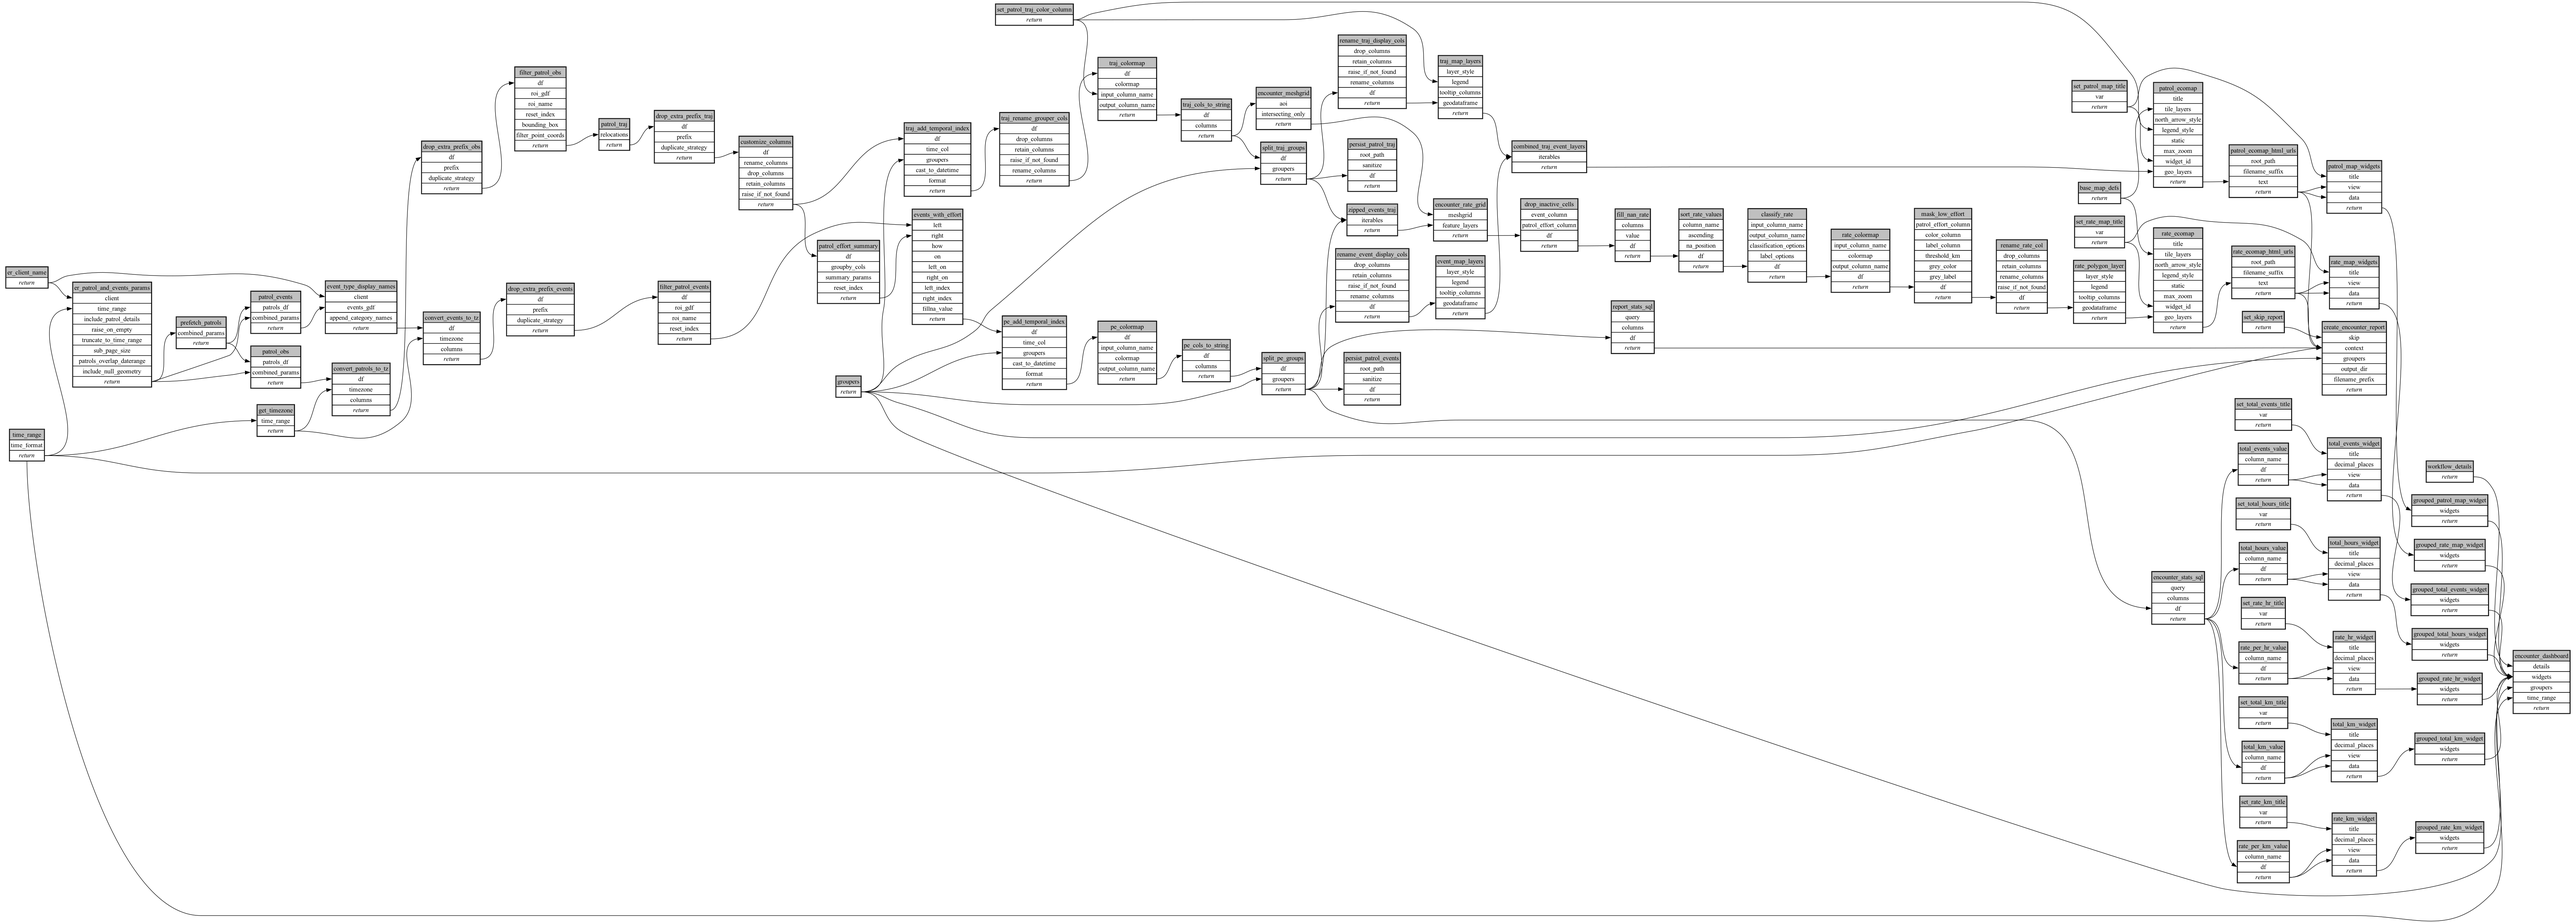
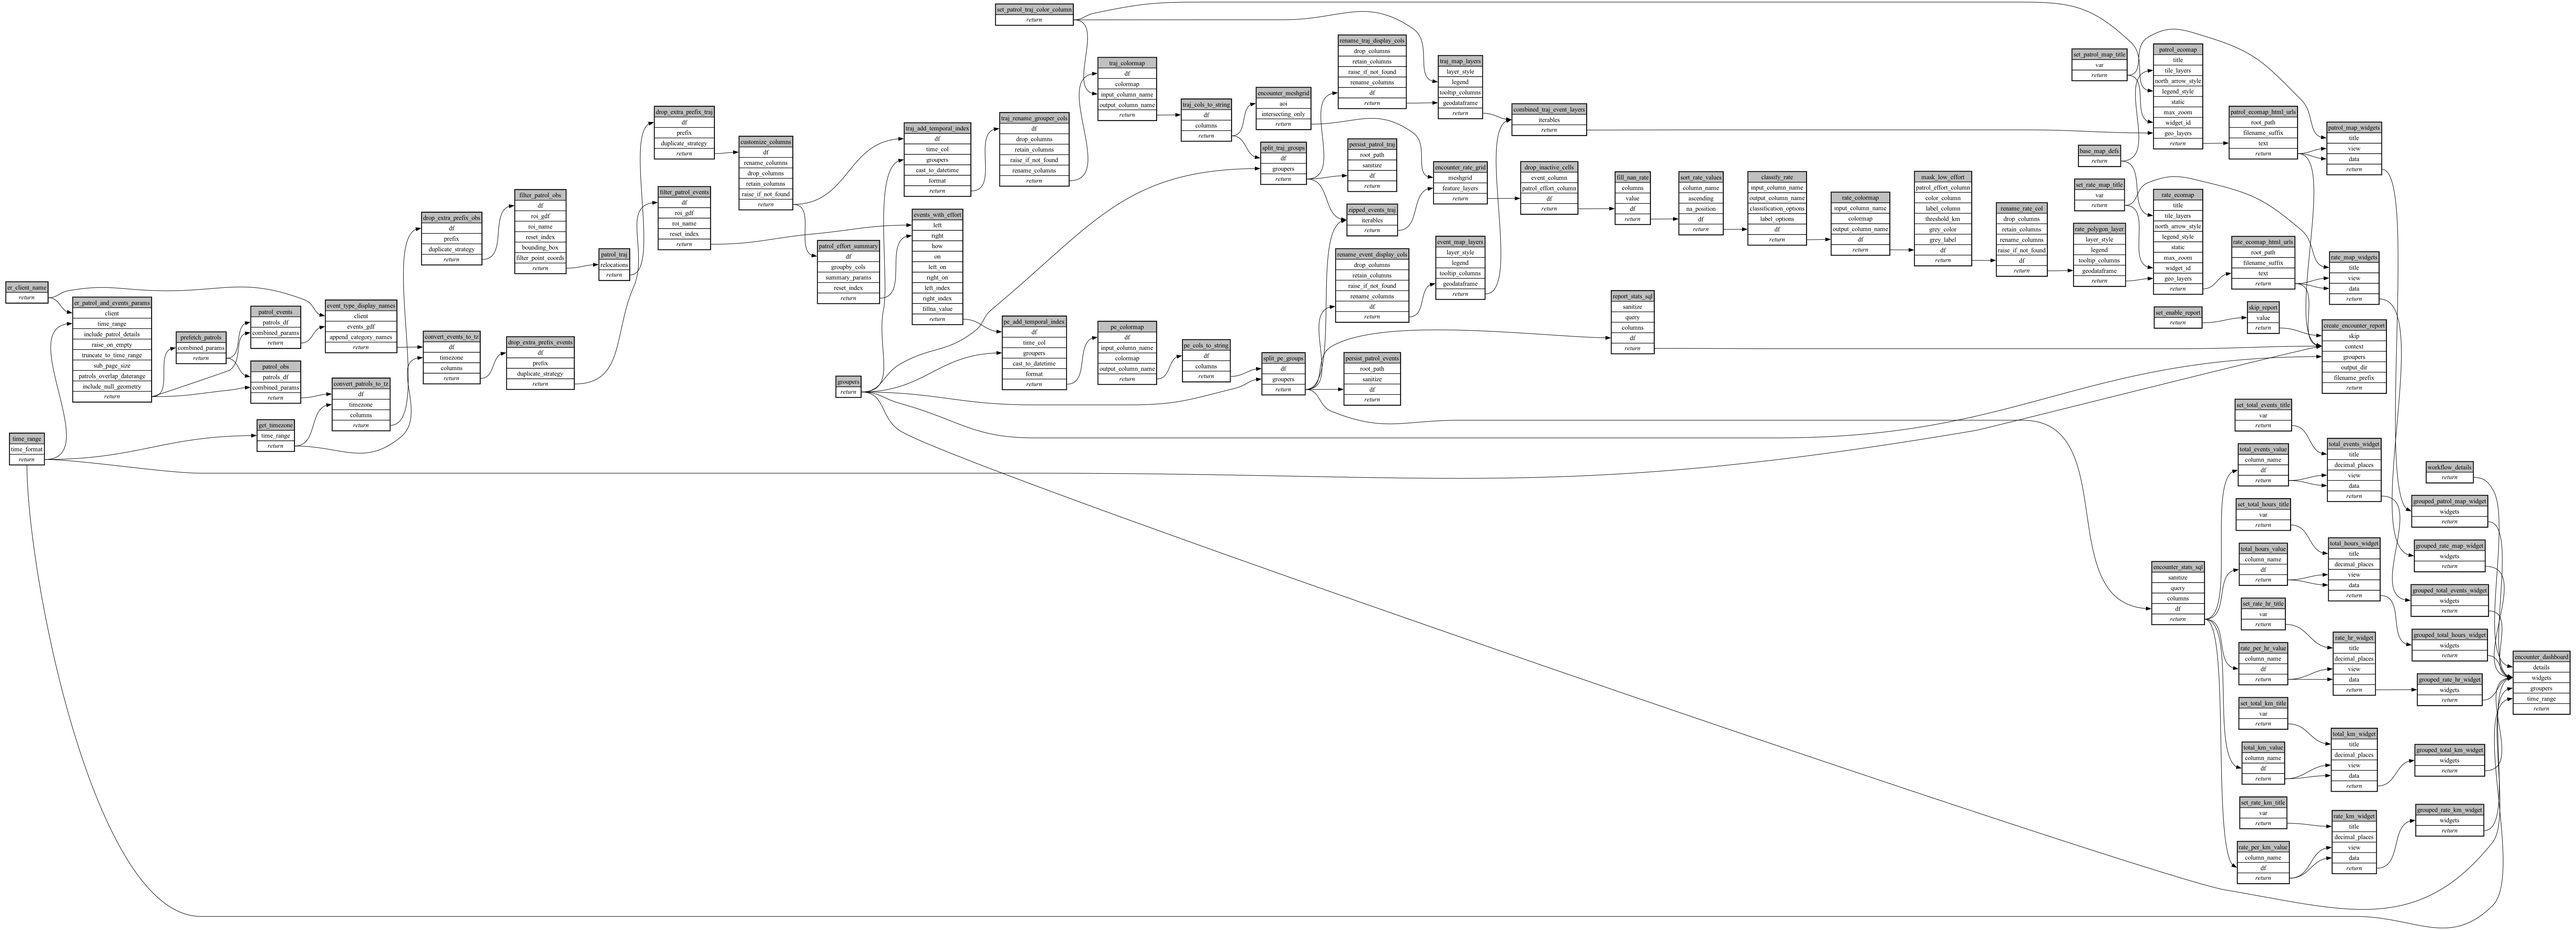
feat: hide sanitize options, invert report toggle to 'Enable Report Generation'
- Pin sanitize: true in the encounter_stats_sql and report_stats_sql
  partials; the lone-field 'Encounter Rate' config card disappears from
  the form and the stray advanced option leaves the Generate Report card.
- Replace 'Skip Report Generation' (default: skip) with 'Enable Report
  Generation' (default: false); the new set_enable_report var is negated
  via ext-custom invert_bool into create_docx.skip.
- Keep VERSION.yaml at 0.2.0 (compiler auto-bump).

diff --git a/ecoscope-workflows-encounter-rate-workflow/ecoscope_workflows_encounter_rate_workflow/dags/run_sequential_mock_io.py b/ecoscope-workflows-encounter-rate-workflow/ecoscope_workflows_encounter_rate_workflow/dags/run_sequential_mock_io.py
@@ -106,6 +106,7 @@ from ecoscope_workflows_ext_custom.tasks.io import (
     persist_df_wrapper as persist_df_wrapper,
 )
 from ecoscope_workflows_ext_custom.tasks.results import create_docx as create_docx
+from ecoscope_workflows_ext_custom.tasks.skip import invert_bool as invert_bool
 from ecoscope_workflows_ext_custom.tasks.spatial_ops import (
     calculate_encounter_rate_grid as calculate_encounter_rate_grid,
 )
@@ -1542,6 +1543,7 @@ def main(params: dict[str, Any], validate_params_schema: bool = True):
             unpack_depth=1,
         )
         .partial(
+            sanitize=True,
             query="SELECT\n  CAST(COUNT(*) AS FLOAT) AS total_events,\n  (SELECT SUM(t) FROM (SELECT DISTINCT patrol_id, total_time_s AS t FROM df)) / 3600.0 AS total_hours,\n  CAST(COUNT(*) AS FLOAT) * 3600.0 / NULLIF(\n    (SELECT SUM(t) FROM (SELECT DISTINCT patrol_id, total_time_s AS t FROM df)),\n    0\n  ) AS events_per_hour,\n  (SELECT SUM(d) FROM (SELECT DISTINCT patrol_id, total_dist_m AS d FROM df)) / 1000.0 AS total_km,\n  CAST(COUNT(*) AS FLOAT) * 1000.0 / NULLIF(\n    (SELECT SUM(d) FROM (SELECT DISTINCT patrol_id, total_dist_m AS d FROM df)),\n    0\n  ) AS events_per_km\nFROM df",
             columns=["patrol_id", "total_dist_m", "total_time_s"],
             **(params.get("encounter_stats_sql") or {}),
@@ -1869,10 +1871,10 @@ def main(params: dict[str, Any], validate_params_schema: bool = True):
         .mapvalues(argnames=["df"], argvalues=split_pe_groups)
     )
 
-    set_skip_report = (
+    set_enable_report = (
         task(set_bool_var)
         .validate()
-        .set_task_instance_id("set_skip_report")
+        .set_task_instance_id("set_enable_report")
         .handle_errors()
         .with_tracing()
         .skipif(
@@ -1882,7 +1884,24 @@ def main(params: dict[str, Any], validate_params_schema: bool = True):
             ],
             unpack_depth=1,
         )
-        .partial(**(params.get("set_skip_report") or {}))
+        .partial(**(params.get("set_enable_report") or {}))
+        .call()
+    )
+
+    skip_report = (
+        task(invert_bool)
+        .validate()
+        .set_task_instance_id("skip_report")
+        .handle_errors()
+        .with_tracing()
+        .skipif(
+            conditions=[
+                any_is_empty_df,
+                any_dependency_skipped,
+            ],
+            unpack_depth=1,
+        )
+        .partial(value=set_enable_report, **(params.get("skip_report") or {}))
         .call()
     )
 
@@ -1900,6 +1919,7 @@ def main(params: dict[str, Any], validate_params_schema: bool = True):
             unpack_depth=1,
         )
         .partial(
+            sanitize=True,
             query='SELECT\n  CAST(COUNT(*) AS FLOAT) AS "Total Events",\n  ROUND((SELECT SUM(t) FROM (SELECT DISTINCT patrol_id, total_time_s AS t FROM df)) / 3600.0, 2) AS "Total Patrol Hours",\n  ROUND(CAST(COUNT(*) AS FLOAT) * 3600.0 / NULLIF(\n    (SELECT SUM(t) FROM (SELECT DISTINCT patrol_id, total_time_s AS t FROM df)),\n    0\n  ), 2) AS "Events Per Hour",\n  ROUND((SELECT SUM(d) FROM (SELECT DISTINCT patrol_id, total_dist_m AS d FROM df)) / 1000.0, 2) AS "Total Patrol Km",\n  ROUND(CAST(COUNT(*) AS FLOAT) * 1000.0 / NULLIF(\n    (SELECT SUM(d) FROM (SELECT DISTINCT patrol_id, total_dist_m AS d FROM df)),\n    0\n  ), 2) AS "Events Per Km"\nFROM df',
             columns=["patrol_id", "total_dist_m", "total_time_s"],
             **(params.get("report_stats_sql") or {}),
@@ -1920,7 +1940,7 @@ def main(params: dict[str, Any], validate_params_schema: bool = True):
             unpack_depth=1,
         )
         .partial(
-            skip=set_skip_report,
+            skip=skip_report,
             context={
                 "items": [
                     {

diff --git a/ecoscope-workflows-encounter-rate-workflow/ecoscope_workflows_encounter_rate_workflow/dags/run_sequential.py b/ecoscope-workflows-encounter-rate-workflow/ecoscope_workflows_encounter_rate_workflow/dags/run_sequential.py
@@ -84,6 +84,7 @@ from ecoscope_workflows_ext_custom.tasks.io import (
     persist_df_wrapper as persist_df_wrapper,
 )
 from ecoscope_workflows_ext_custom.tasks.results import create_docx as create_docx
+from ecoscope_workflows_ext_custom.tasks.skip import invert_bool as invert_bool
 from ecoscope_workflows_ext_custom.tasks.spatial_ops import (
     calculate_encounter_rate_grid as calculate_encounter_rate_grid,
 )
@@ -1522,6 +1523,7 @@ def main(params: dict[str, Any], validate_params_schema: bool = True):
             unpack_depth=1,
         )
         .partial(
+            sanitize=True,
             query="SELECT\n  CAST(COUNT(*) AS FLOAT) AS total_events,\n  (SELECT SUM(t) FROM (SELECT DISTINCT patrol_id, total_time_s AS t FROM df)) / 3600.0 AS total_hours,\n  CAST(COUNT(*) AS FLOAT) * 3600.0 / NULLIF(\n    (SELECT SUM(t) FROM (SELECT DISTINCT patrol_id, total_time_s AS t FROM df)),\n    0\n  ) AS events_per_hour,\n  (SELECT SUM(d) FROM (SELECT DISTINCT patrol_id, total_dist_m AS d FROM df)) / 1000.0 AS total_km,\n  CAST(COUNT(*) AS FLOAT) * 1000.0 / NULLIF(\n    (SELECT SUM(d) FROM (SELECT DISTINCT patrol_id, total_dist_m AS d FROM df)),\n    0\n  ) AS events_per_km\nFROM df",
             columns=["patrol_id", "total_dist_m", "total_time_s"],
             **(params.get("encounter_stats_sql") or {}),
@@ -1849,10 +1851,10 @@ def main(params: dict[str, Any], validate_params_schema: bool = True):
         .mapvalues(argnames=["df"], argvalues=split_pe_groups)
     )
 
-    set_skip_report = (
+    set_enable_report = (
         task(set_bool_var)
         .validate()
-        .set_task_instance_id("set_skip_report")
+        .set_task_instance_id("set_enable_report")
         .handle_errors()
         .with_tracing()
         .skipif(
@@ -1862,7 +1864,24 @@ def main(params: dict[str, Any], validate_params_schema: bool = True):
             ],
             unpack_depth=1,
         )
-        .partial(**(params.get("set_skip_report") or {}))
+        .partial(**(params.get("set_enable_report") or {}))
+        .call()
+    )
+
+    skip_report = (
+        task(invert_bool)
+        .validate()
+        .set_task_instance_id("skip_report")
+        .handle_errors()
+        .with_tracing()
+        .skipif(
+            conditions=[
+                any_is_empty_df,
+                any_dependency_skipped,
+            ],
+            unpack_depth=1,
+        )
+        .partial(value=set_enable_report, **(params.get("skip_report") or {}))
         .call()
     )
 
@@ -1880,6 +1899,7 @@ def main(params: dict[str, Any], validate_params_schema: bool = True):
             unpack_depth=1,
         )
         .partial(
+            sanitize=True,
             query='SELECT\n  CAST(COUNT(*) AS FLOAT) AS "Total Events",\n  ROUND((SELECT SUM(t) FROM (SELECT DISTINCT patrol_id, total_time_s AS t FROM df)) / 3600.0, 2) AS "Total Patrol Hours",\n  ROUND(CAST(COUNT(*) AS FLOAT) * 3600.0 / NULLIF(\n    (SELECT SUM(t) FROM (SELECT DISTINCT patrol_id, total_time_s AS t FROM df)),\n    0\n  ), 2) AS "Events Per Hour",\n  ROUND((SELECT SUM(d) FROM (SELECT DISTINCT patrol_id, total_dist_m AS d FROM df)) / 1000.0, 2) AS "Total Patrol Km",\n  ROUND(CAST(COUNT(*) AS FLOAT) * 1000.0 / NULLIF(\n    (SELECT SUM(d) FROM (SELECT DISTINCT patrol_id, total_dist_m AS d FROM df)),\n    0\n  ), 2) AS "Events Per Km"\nFROM df',
             columns=["patrol_id", "total_dist_m", "total_time_s"],
             **(params.get("report_stats_sql") or {}),
@@ -1900,7 +1920,7 @@ def main(params: dict[str, Any], validate_params_schema: bool = True):
             unpack_depth=1,
         )
         .partial(
-            skip=set_skip_report,
+            skip=skip_report,
             context={
                 "items": [
                     {

diff --git a/ecoscope-workflows-encounter-rate-workflow/README.md b/ecoscope-workflows-encounter-rate-workflow/README.md
@@ -5,8 +5,8 @@
 
 ```yaml
 # fingerprint:
-artifacts_sha256_basic: 5abc5da00b58929222ecbbe0722dd2dd419425bae9e5ebe359a5200bd7b7ceca
-artifacts_sha256_strict: 8b99817a319e8420055fb8273f8200cab4a336bd88af0c381616a626a5ce6a43
+artifacts_sha256_basic: d69335efe2f0420c3f4d499408dbaf68ef90af9177e14d3f874c210e099aa73c
+artifacts_sha256_strict: 6b7fbecce238c6c44e6438c431fb351efb09493023ecc389ced5e1a79c3fb19d
 installed_requirements:
 - channel: https://repo.prefix.dev/ecoscope-workflows/
   name: ecoscope-platform
@@ -17,8 +17,8 @@ installed_requirements:
 - channel: conda-forge
   name: pydeck
   version: {version: ==0.9.2}
-params_sha256: 5147929f354c00f0a5c6655bc643d29efd4863674331def0781705e71c41e7ec
-spec_sha256: 663158c46aa073479f8d7ab4266571547bfbe269e1dc5837cdd895df53fe2ebd
+params_sha256: 4cd051b321f83f48eaffd2db67c34843ec117ff2c05b96ba47601bc4bdb9ad79
+spec_sha256: b390e37513ba683c4144b7ce48686ad37e94103adee9d9e14c2d9306142199fc
 
 ```
 
